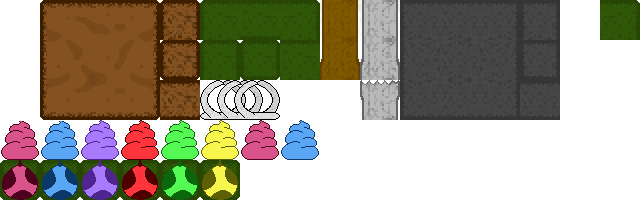
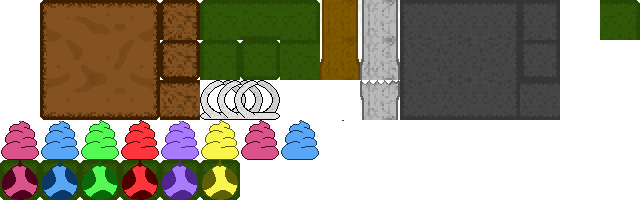
Green eggs n ham

Changed region(s): [[0.25, 0.6, 0.3125, 1.0], [0.125, 0.6, 0.1875, 1.0]]

diff --git a/index.html b/index.html
@@ -19,6 +19,10 @@
     <title>LD45. A game by Good Soup.</title>
   </head>
   <body>
+    <script type="module">
+      import "./assets/vendor/restart-audio-context.js";
+    </script>
+
     <h1>LD64 game by Good Soup</h1>
     <div id="container">
       <canvas id="game" class="bevy-instance__canvas"></canvas>

diff --git a/index.scss b/index.scss
@@ -1,6 +1,7 @@
 html, body {
     margin: 0;
     padding: 0;
+    height: 100%;
 }
 
 h1 {

diff --git a/src/terrain.rs b/src/terrain.rs
@@ -6,7 +6,6 @@ use bevy_ecs_tilemap::helpers::square_grid::neighbors::Neighbors;
 use bevy_ecs_tilemap::prelude::*;
 use bevy_kira_audio::prelude::*;
 use rand::Rng;
-use rand::seq::IteratorRandom;
 use rand::seq::SliceRandom;
 
 use crate::AssetCol;
@@ -131,29 +130,28 @@ impl Plugin for TerrainPlugin {
         app.add_plugins(TilemapPlugin)
             .init_resource::<Pointer>()
             .add_systems(OnEnter(GameState::InGame), terrain_setup)
-            .add_systems(First, update_pointer)//).chain())//).chain())
+            .add_systems(First, update_pointer)
             .add_systems(Update, (
                 highlight_tile,
                 update_tile,
                 update_navmesh_on_tile_change.after(update_tile),
                 remove_conflicting_paths_on_tile_change.after(update_tile),
                 spawn_plant,
-                // tick_tiles
             ).run_if(in_state(GameState::InGame)));
     }
 }
 
 #[derive(Debug, Clone, Copy, PartialEq, Eq)]
 pub enum Faction {
-    Green,
-    Blue,
     Red,
+    Blue,
+    Green
 }
 impl Faction {
     const FACTIONS: &'static [Self] = &[
         Self::Red,
+        Self::Blue,
         Self::Green,
-        Self::Red,
     ];
     #[must_use]
     pub fn random() -> Self {
@@ -313,7 +311,7 @@ fn spawn_tile(commands: &mut Commands, position: TilePos, tile: Tile, map_ent: E
         Tile::Stalk { .. } => commands.spawn((
             tbundle,
             Plant {
-                ptype: Faction::Red,
+                ptype: Faction::Green,
                 status: PlantStatus::Growing,
             },
             tile,
@@ -322,9 +320,11 @@ fn spawn_tile(commands: &mut Commands, position: TilePos, tile: Tile, map_ent: E
         Tile::Egg { style } => {
             commands.spawn((
                 tbundle,
-                Egg {
-                    faction: if style == 0 { Faction::Red } else { Faction::Blue }
-                },
+                Egg { faction: match style {
+                    0 => Faction::Red,
+                    1 => Faction::Blue,
+                    _ => Faction::Green
+                }},
                 tile,
                 health))
         },
@@ -475,27 +475,6 @@ fn update_tile(
     }
 }
 
-
-fn tick_tiles(
-    mut tile_query: Query<(&mut TileColor, &mut Tile, &mut Health)>,
-) {
-    if let Some((mut sprite, mut tile, mut health)) = tile_query.iter_mut().choose(&mut rand::thread_rng()) {
-        match *tile {
-            Tile::Dirt {..} => {
-                health.0 -= 10;
-                if health.0 > 50 {
-                    sprite.0.set_a(health.0 as f32 / 100.);
-                } else {
-                    *tile = Tile::Air;
-                    sprite.0.set_a(1.0);
-                    health.0 = 100;
-                }
-            },
-            _ => ()
-        }
-    }
-}
-
 pub fn draw_tile(
     pointer_tile: &Tile,
     tile: &Tile,
@@ -582,20 +561,24 @@ fn spawn_plant(
         // Add stalks and egg
         let egg_spot = plant_stack.len() - 1;
         let mut i = 0;
+        let faction = Faction::random();
+
         for plant_ent in plant_stack {
             if i == egg_spot {
-                let mut rng = rand::thread_rng();
-                let is_blue = rng.gen_bool(0.5);
+                //let mut rng = rand::thread_rng();
+                //let is_blue = rng.gen_bool(0.5);
                 commands.entity(*plant_ent).insert((
-                    Egg {
-                        faction: if is_blue { Faction::Blue } else { Faction::Red }
-                    },
-                    Tile::Egg { style: if is_blue { 1 } else { 0 }  }
+                    Egg { faction },
+                    Tile::Egg { style: match faction {
+                        Faction::Red => 0,
+                        Faction::Blue => 1,
+                        _ => 2
+                    }}
                 ));
             } else {
                 commands.entity(*plant_ent).insert((
                     Plant {
-                        ptype: Faction::Red,
+                        ptype: faction,
                         status: PlantStatus::Growing,
                     },
                     Tile::Stalk { style: 0 }

diff --git a/src/rumblebees.rs b/src/rumblebees.rs
@@ -273,7 +273,7 @@ fn find_target(
         };
 
         let targets = eggs.iter().filter_map(|(egg, pos)| {
-            (egg.faction == entity.2.faction).then_some((egg, pos))
+            (match_faction(entity.2.faction, egg.faction)).then_some((egg, pos))
         });
 
         let mut target_path: Option<Pathfinding> = None;
@@ -352,6 +352,10 @@ fn find_target(
     }
 }
 
+fn match_faction (a: Faction, b: Faction) -> bool {
+    a == b || b == Faction::Green
+}
+
 fn egg_collisions(
     mut commands: Commands,
     beez: Query<(Entity, &RumbleBee, &Transform)>,
@@ -375,7 +379,8 @@ fn egg_collisions(
                 z: bee_pos.translation.z
             };
 
-            if bee_pos.translation.distance(pos) < 20.0 && bee.faction == egg.faction {
+            if match_faction(bee.faction, egg.faction) &&
+                bee_pos.translation.distance(pos) < 20.0 {
                 // Got a egg..
                 got_egg_event.send_default();
                 commands.entity(egg_ent).remove::<Egg>();
@@ -387,7 +392,7 @@ fn egg_collisions(
                 // Spawn new bee
                 commands.spawn(BeeBorn {
                     pos: Some(pos.xy().clone()),
-                    faction: egg.faction
+                    faction: bee.faction
                 });
 
 
@@ -531,6 +536,7 @@ fn bee_dead(
         commands.entity(ent).despawn_recursive();
 
         // Add some bones
+        /*
         // TODO: needs to set tilemap, not just be a sprite
         commands.spawn((SpriteSheetBundle {
             texture_atlas: assets.tiles.clone(),
@@ -549,7 +555,8 @@ fn bee_dead(
                 Layers::MIDGROUND - 1.0).with_scale(Vec3 { x: 0.5, y: 1.0, z: 1.0 }),
             sprite: TextureAtlasSprite::new(38),
             ..default()
-        }, OnGameScreen));
+         }, OnGameScreen));
+        */
     }
 
     // Is it game over?
